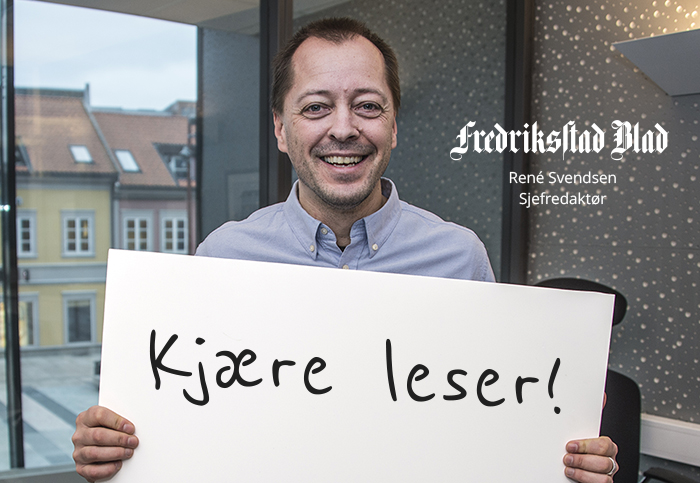
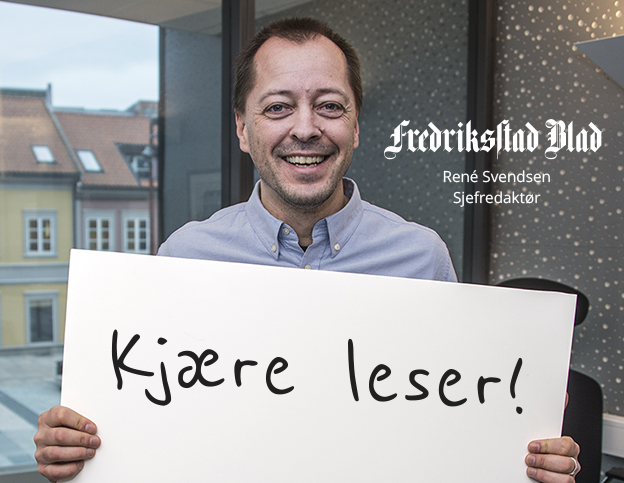
new image

diff --git a/fb-takeover/index.html b/fb-takeover/index.html
@@ -44,7 +44,7 @@
 		
 		<div class="fbt-topImageWrapper">
 			
-			<img class="fbt-topImage fbt-topImage-large" src="gfx/rene-svendsen-2.jpg" alt="Sjefredaktør Rene Svendsen holder et skilt der det står kjære leser" />
+			<img class="fbt-topImage fbt-topImage-large" src="gfx/rene-svendsen-large.jpg" alt="Sjefredaktør Rene Svendsen holder et skilt der det står kjære leser" />
 
 			<img class="fbt-topImage fbt-topImage-small" src="gfx/rene-svendsen-small.jpg" alt="Sjefredaktør Rene Svendsen holder et skilt der det står kjære leser" />
 
